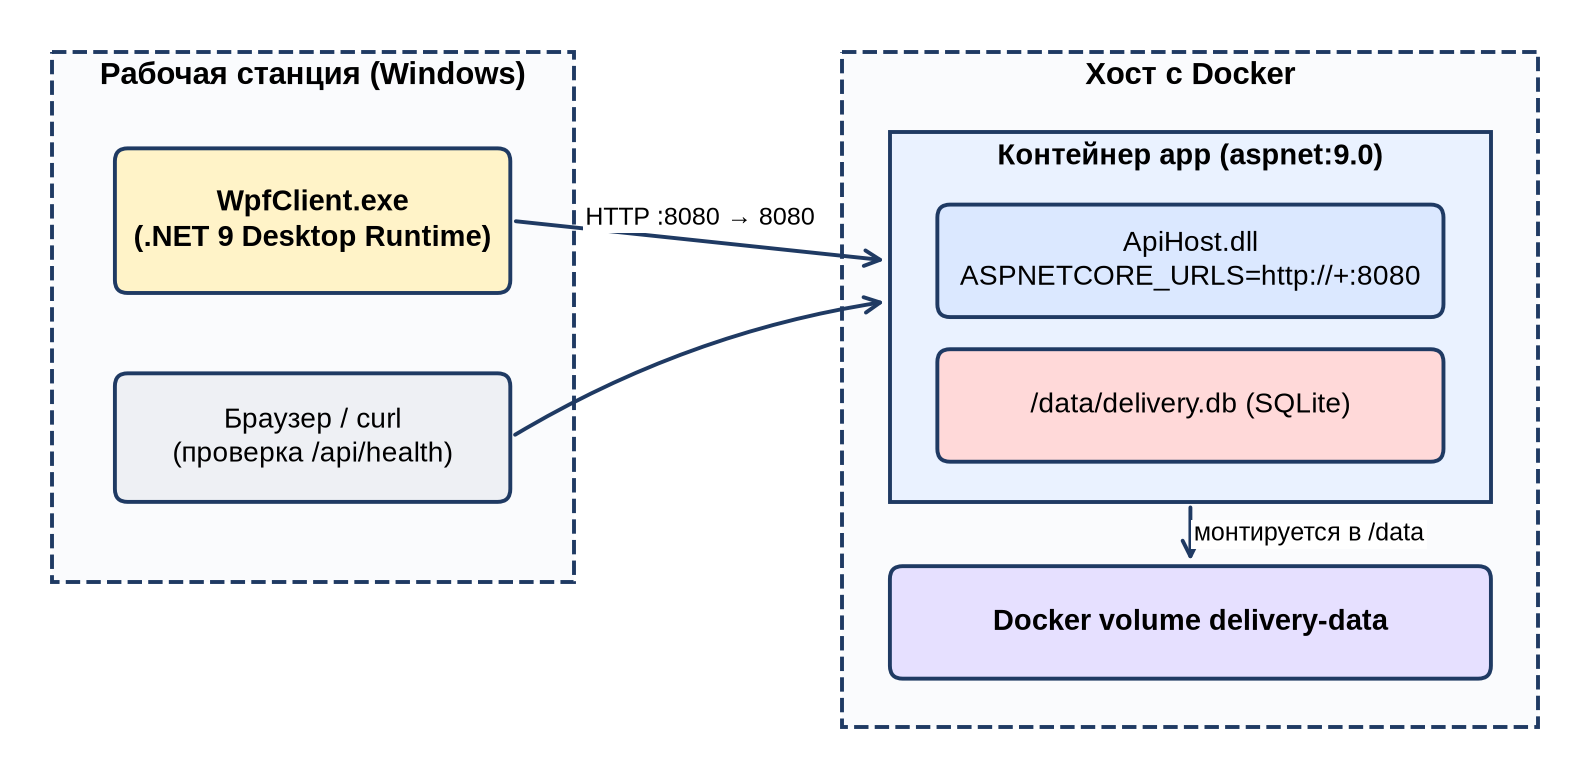
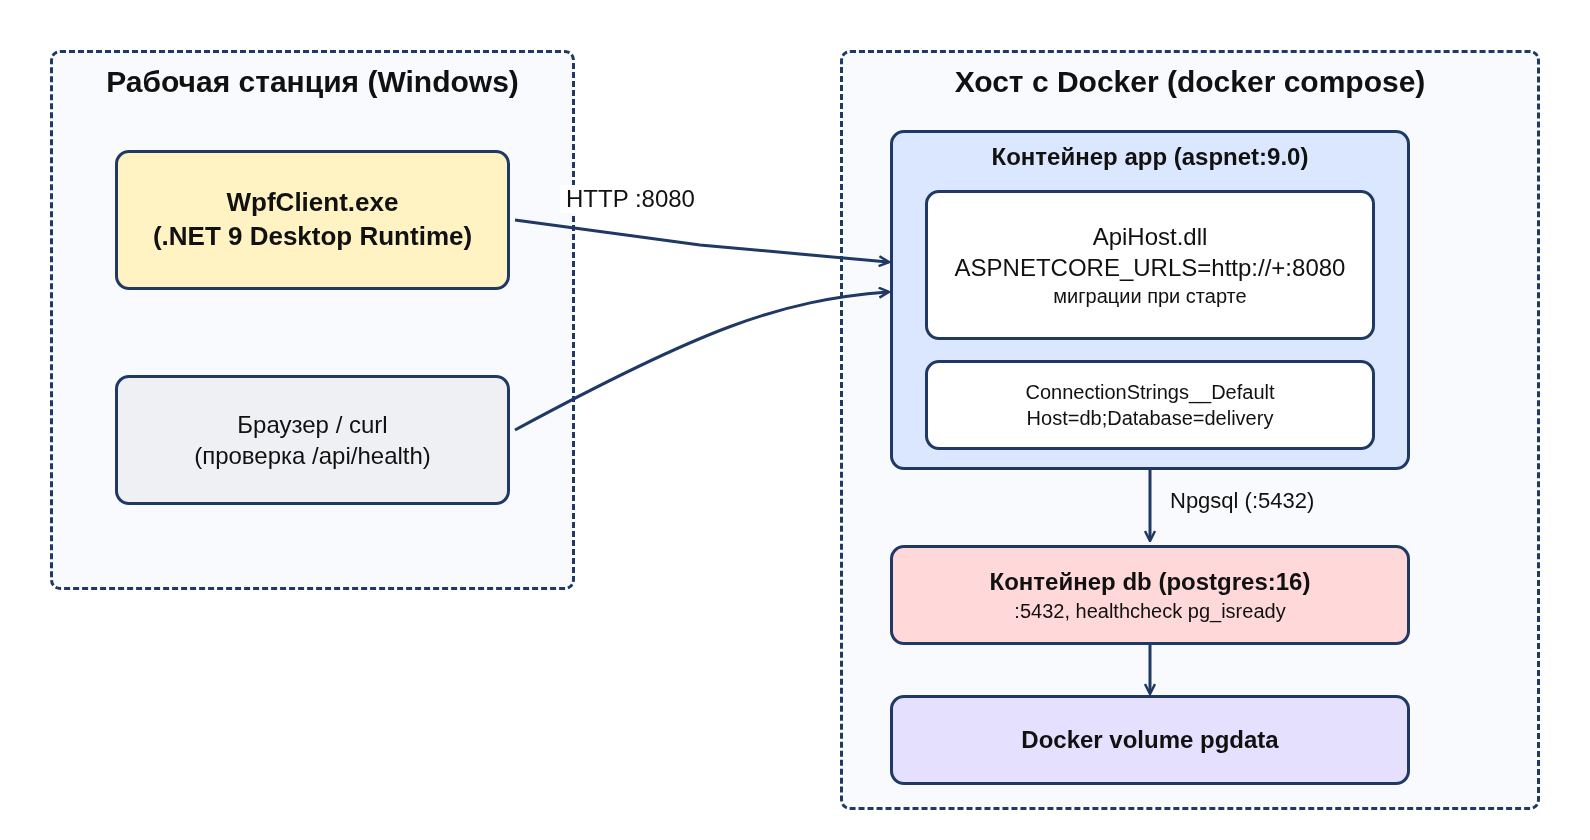
docs: перерисовать диаграммы под PostgreSQL и обновить README
Заменены устаревшие диаграммы: architecture.png и deploy.png (вместо SQLite —
PostgreSQL, контейнер db и volume pgdata), db-schema.png (все 12 таблиц,
включая order_changes, schema_migrations и actor_id), wpf_layout.png
(исправлено наползание столбцов, добавлены статус DeliveryFailed и
секция «Изменения заказа»). В README и architecture.md убраны упоминания,
что схема БД устарела, и добавлены макет интерфейса и схема развёртывания.
Refs #1 (п. 8).

diff --git a/README.md b/README.md
@@ -44,11 +44,11 @@
 ## База данных
 PostgreSQL 16. Строка подключения — `ConnectionStrings:Default` (по умолчанию `Host=localhost;Port=5432;Database=delivery;Username=delivery;Password=delivery`; в Docker — переменная `ConnectionStrings__Default`). Схема создаётся и обновляется **версионированными миграциями** при старте (`src/ApiHost/Db/Migrations.cs`, учёт — таблица `schema_migrations`). Каждая миграция выполняется в транзакции; таблицы и данные автоматически не удаляются. Если схема неизвестна, создана более новой версией или миграция упала, приложение не стартует и пишет причину. На пустой базе добавляются демо-данные. В Docker данные лежат в volume `pgdata`.
 
-![Схема БД (первоначальная)](docs/img/db-schema.png)
+![Схема БД (PostgreSQL)](docs/img/db-schema.png)
 
-Актуальная схема — в [docs/architecture.md](docs/architecture.md#схема-бд-миграции-00010003). Основные таблицы: `customers`, `customer_addresses`, `couriers`, `users` (пароли PBKDF2), `products` (`price_kopecks`), `orders`, `order_items`, `deliveries`, `status_history`, `order_history`, `order_changes`.
+Текстовое описание схемы — в [docs/architecture.md](docs/architecture.md#схема-бд-миграции-00010003). Основные таблицы: `customers`, `customer_addresses`, `couriers`, `users` (пароли PBKDF2), `products` (`price_kopecks`), `orders`, `order_items`, `deliveries`, `status_history`, `order_history`, `order_changes`.
 
-### Обновление с версии на SQLite
+### Обновление со старой версии (SQLite)
 См. [docs/architecture.md](docs/architecture.md#обновление-существующей-установки): запустить PostgreSQL, затем
 ```bash
 dotnet run --project tools/SqliteImport -- data/delivery.db "Host=localhost;Port=5432;Database=delivery;Username=delivery;Password=delivery"
@@ -82,6 +82,10 @@ dotnet run --project src/ApiHost --no-launch-profile --urls http://localhost:808
 
 Приложение доступно на http://localhost:8080, проверка работоспособности — `GET /api/health`.
 
+Схема развёртывания:
+
+![Развёртывание](docs/img/deploy.png)
+
 ### WPF-клиент
 Сначала запустите сервер, затем (Windows):
 ```bash
@@ -103,6 +107,10 @@ dotnet test OrderDeliveryManagementSystem.sln
 - **Оператор**: диспетчерская (все заказы, поиск, назначение курьера вручную или автоматически, смена статуса, подтверждение получения) и справочники клиентов, курьеров и товаров.
 - **Клиент**: «Мои заказы», создание заказа из товаров с количеством, выбор или сохранение адреса, изменение и отмена заказа до принятия курьером, подтверждение получения.
 - **Курьер**: маршрутный лист, кнопки «Принять», «В пути», «Доставлено», «Не удалось» (с причиной), переход на линию и обратно.
+
+Макет окна оператора:
+
+![Макет интерфейса оператора](docs/img/wpf_layout.png)
 
 Список обновляется автоматически каждые 8 секунд, справа показана карточка заказа с составом, статусом заказа, временем, историей статусов и журналом изменений.
 
@@ -142,5 +150,4 @@ dotnet test OrderDeliveryManagementSystem.sln
 - Демо-пароли равны логинам — для боевого использования их нужно сменить.
 - Автоподбор курьера выбирает первого свободного по имени (без балансировки нагрузки).
 - После `Failed` доставку нельзя повторить в рамках того же заказа (ТЗ этого не предусматривает).
-- Диаграмма `docs/img/db-schema.png` отражает первоначальную схему; актуальная — в `docs/architecture.md`.
 - WPF-клиент собирается и запускается только под Windows; в CI он собирается с `EnableWindowsTargeting`, ручная проверка интерфейса не автоматизирована.

diff --git a/docs/architecture.md b/docs/architecture.md
@@ -16,7 +16,7 @@
 
 ![Статусы](img/statuses.png)
 
-Реализация: каждый модуль (`OrderModule`, `DeliveryModule`, `CourierModule`, `CustomerModule`) содержит свои бизнес-правила (`*Rules.cs`), а `ApiHost` отвечает за HTTP, авторизацию по ролям и хранение в SQLite (`Store.cs`, транзакции на создание заказа и смену статуса). Это упрощение под курсовой: отдельных процессов и баз у модулей нет.
+Реализация: каждый модуль (`OrderModule`, `DeliveryModule`, `CourierModule`, `CustomerModule`) содержит свои бизнес-правила (`*Rules.cs`), а `ApiHost` отвечает за HTTP, авторизацию по ролям и хранение в PostgreSQL (`Store.cs`, транзакции на создание заказа и смену статуса). Это упрощение под курсовой: отдельных процессов и баз у модулей нет.
 
 
 ---
@@ -44,7 +44,9 @@ order_changes(id, order_id, at, actor_id, actor_name, field, old_value, new_valu
 schema_migrations(version, name, applied_at)
 ```
 
-Диаграмма `img/db-schema.png` относится к первоначальной схеме и не обновлялась; актуальная схема — выше.
+Диаграмма схемы (PostgreSQL, миграции 0001–0003):
+
+![Схема БД](img/db-schema.png)
 
 ### Обновление существующей установки
 
